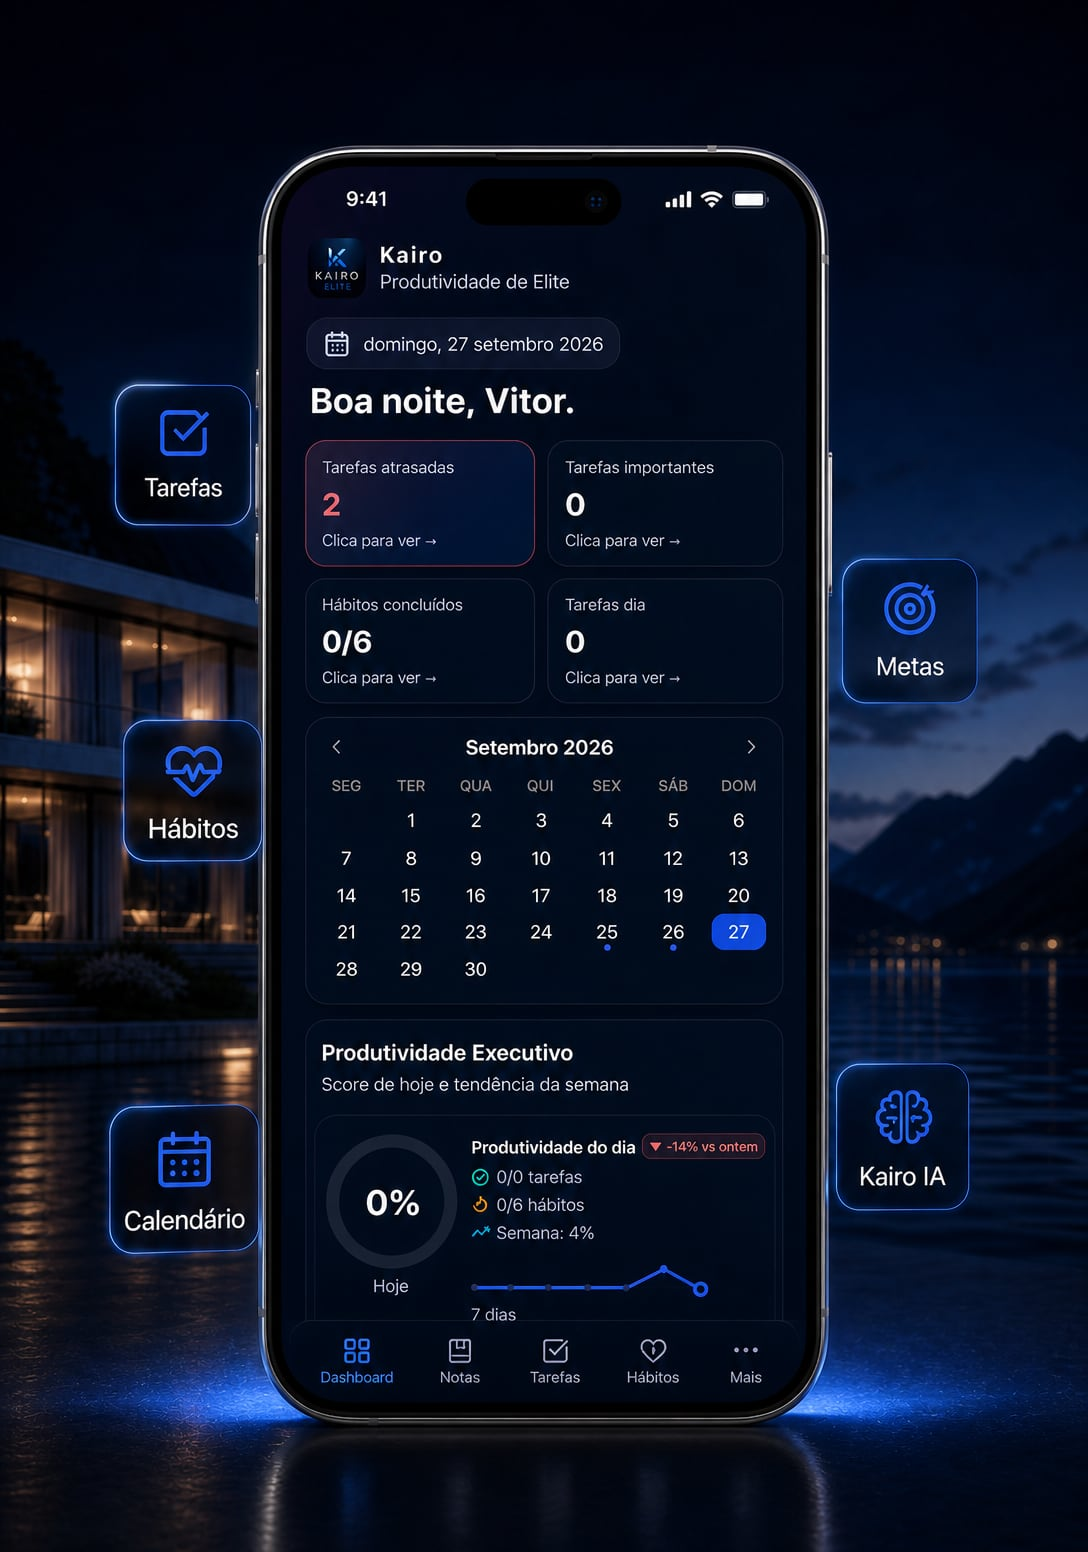
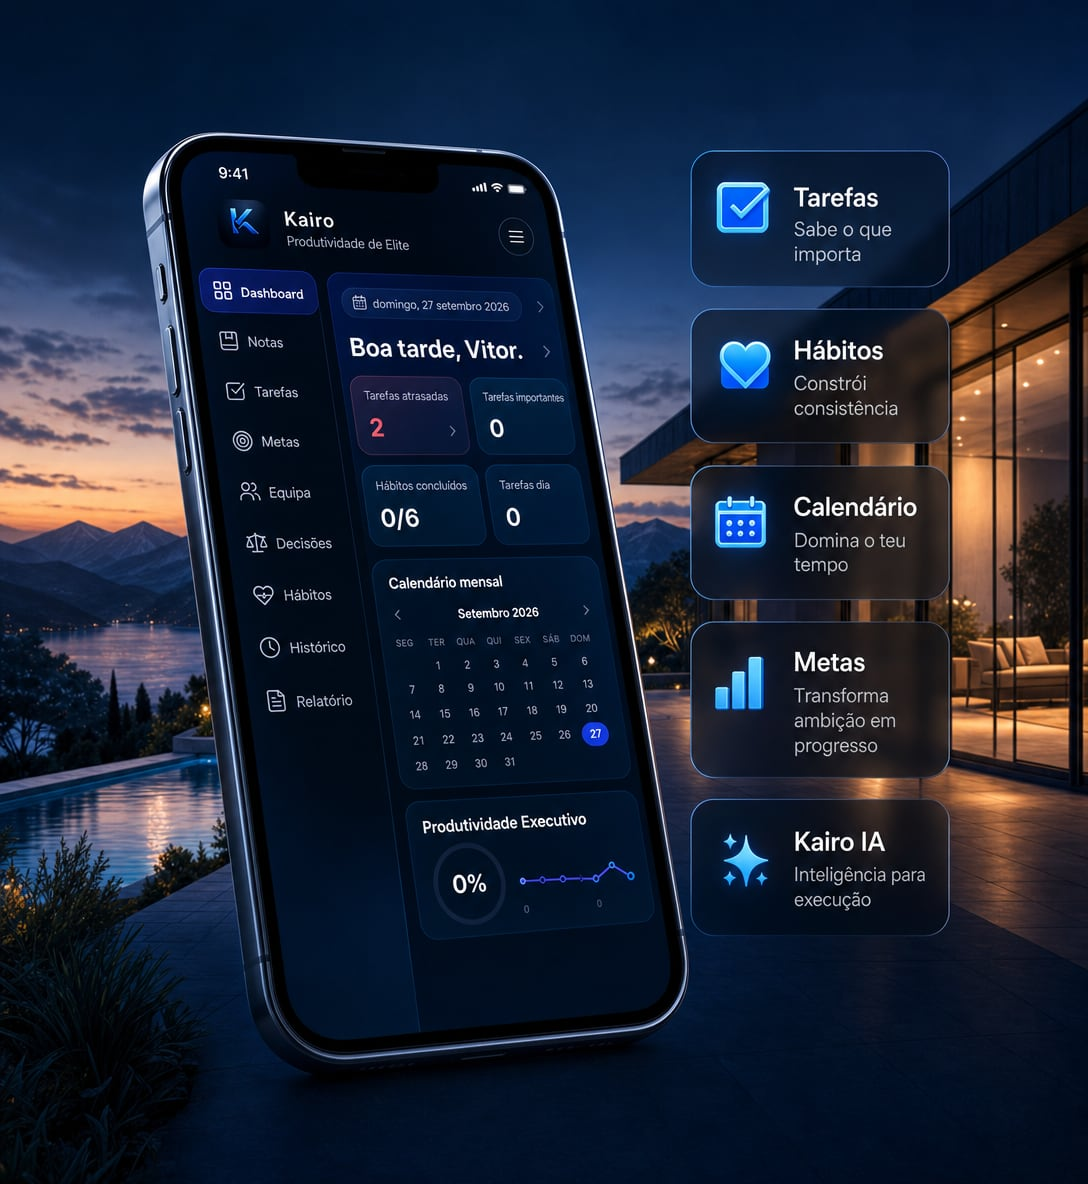
hero mobile: composicao da referencia - iphone inclinado com sidebar + cards com descricoes

diff --git a/index.html b/index.html
@@ -466,6 +466,7 @@
       border: 1px solid rgba(120,170,255,0.18);
     }
     .hero-mobile-visual { display: none; }
+    .hero-discover { display: none; }
     @media (max-width: 900px) {
       #hero { min-height: 100svh; align-items: flex-start; padding-top: 116px; padding-bottom: 48px; }
       .hero-bg { background: radial-gradient(120% 55% at 50% 0%, rgba(22,139,255,0.16) 0%, transparent 55%), radial-gradient(80% 45% at 85% 92%, rgba(45,107,255,0.12) 0%, transparent 60%), linear-gradient(180deg, #04101F 0%, #020817 55%, #020817 100%); }
@@ -483,6 +484,8 @@
       #hero .hero-ctas { position: static; transform: none; margin-top: 26px; padding: 0; background: transparent; border: none; backdrop-filter: none; flex-direction: column; align-items: stretch; gap: 12px; max-width: 400px; margin-left: auto; margin-right: auto; width: 100%; }
       #hero .hero-ctas .btn { justify-content: center; }
       #hero .hero-social-proof { margin-top: 18px; text-align: center; max-width: 400px; margin-left: auto; margin-right: auto; }
+      .hero-discover { display: flex; align-items: center; justify-content: center; gap: 10px; margin-top: 26px; font-size: 0.66rem; font-weight: 600; letter-spacing: 0.24em; text-transform: uppercase; color: var(--muted); }
+      .hero-discover::before { content: ""; width: 7px; height: 7px; border-right: 1.5px solid var(--blue); border-bottom: 1.5px solid var(--blue); transform: rotate(45deg) translateY(-2px); }
     }
     .hero-mockup {
       display: flex;
@@ -1709,7 +1712,7 @@
             <span class="hero-chip"><i data-lucide="users"></i>Equipas</span>
           </div>
           <div class="hero-mobile-visual">
-            <img src="./hero-mobile-pt.jpg" alt="Kairo no iPhone — dashboard com tarefas, calendário e produtividade" width="1088" height="1552" loading="lazy" />
+            <img src="./hero-mobile-pt.jpg" alt="Kairo no iPhone — dashboard com tarefas, calendário e produtividade" width="1088" height="1184" loading="lazy" />
           </div>
           <div class="hero-ctas">
             <a href="login.html" class="btn btn-primary btn-lg">
@@ -1721,6 +1724,7 @@
           <div class="hero-social-proof">
             <p class="social-proof-text">Plano gratuito para sempre · Sem cartão · Cancela quando quiseres</p>
           </div>
+          <p class="hero-discover">Descobre uma forma mais inteligente de executar</p>
         </div>
 
 

diff --git a/landing-en.html b/landing-en.html
@@ -466,6 +466,7 @@
       border: 1px solid rgba(120,170,255,0.18);
     }
     .hero-mobile-visual { display: none; }
+    .hero-discover { display: none; }
     @media (max-width: 900px) {
       #hero { min-height: 100svh; align-items: flex-start; padding-top: 116px; padding-bottom: 48px; }
       .hero-bg { background: radial-gradient(120% 55% at 50% 0%, rgba(22,139,255,0.16) 0%, transparent 55%), radial-gradient(80% 45% at 85% 92%, rgba(45,107,255,0.12) 0%, transparent 60%), linear-gradient(180deg, #04101F 0%, #020817 55%, #020817 100%); }
@@ -483,6 +484,8 @@
       #hero .hero-ctas { position: static; transform: none; margin-top: 26px; padding: 0; background: transparent; border: none; backdrop-filter: none; flex-direction: column; align-items: stretch; gap: 12px; max-width: 400px; margin-left: auto; margin-right: auto; width: 100%; }
       #hero .hero-ctas .btn { justify-content: center; }
       #hero .hero-social-proof { margin-top: 18px; text-align: center; max-width: 400px; margin-left: auto; margin-right: auto; }
+      .hero-discover { display: flex; align-items: center; justify-content: center; gap: 10px; margin-top: 26px; font-size: 0.66rem; font-weight: 600; letter-spacing: 0.24em; text-transform: uppercase; color: var(--muted); }
+      .hero-discover::before { content: ""; width: 7px; height: 7px; border-right: 1.5px solid var(--blue); border-bottom: 1.5px solid var(--blue); transform: rotate(45deg) translateY(-2px); }
     }
     .hero-mockup {
       display: flex;
@@ -1709,7 +1712,7 @@
             <span class="hero-chip"><i data-lucide="users"></i>Teams</span>
           </div>
           <div class="hero-mobile-visual">
-            <img src="./hero-mobile-en.jpg" alt="Kairo on iPhone — dashboard with tasks, calendar and productivity" width="1088" height="1552" loading="lazy" />
+            <img src="./hero-mobile-en.jpg" alt="Kairo on iPhone — dashboard with tasks, calendar and productivity" width="1088" height="1184" loading="lazy" />
           </div>
           <div class="hero-ctas">
             <a href="login-en.html" class="btn btn-primary btn-lg">
@@ -1721,6 +1724,7 @@
           <div class="hero-social-proof">
             <p class="social-proof-text">Free plan forever · No card required · Cancel anytime</p>
           </div>
+          <p class="hero-discover">Discover a smarter way to execute</p>
         </div>
 
 

diff --git a/sw.js b/sw.js
@@ -1,4 +1,4 @@
-const CACHE_NAME = "kairo-v6";
+const CACHE_NAME = "kairo-v7";
 const PRECACHE_ASSETS = [
   "./",
   "./index.html",
